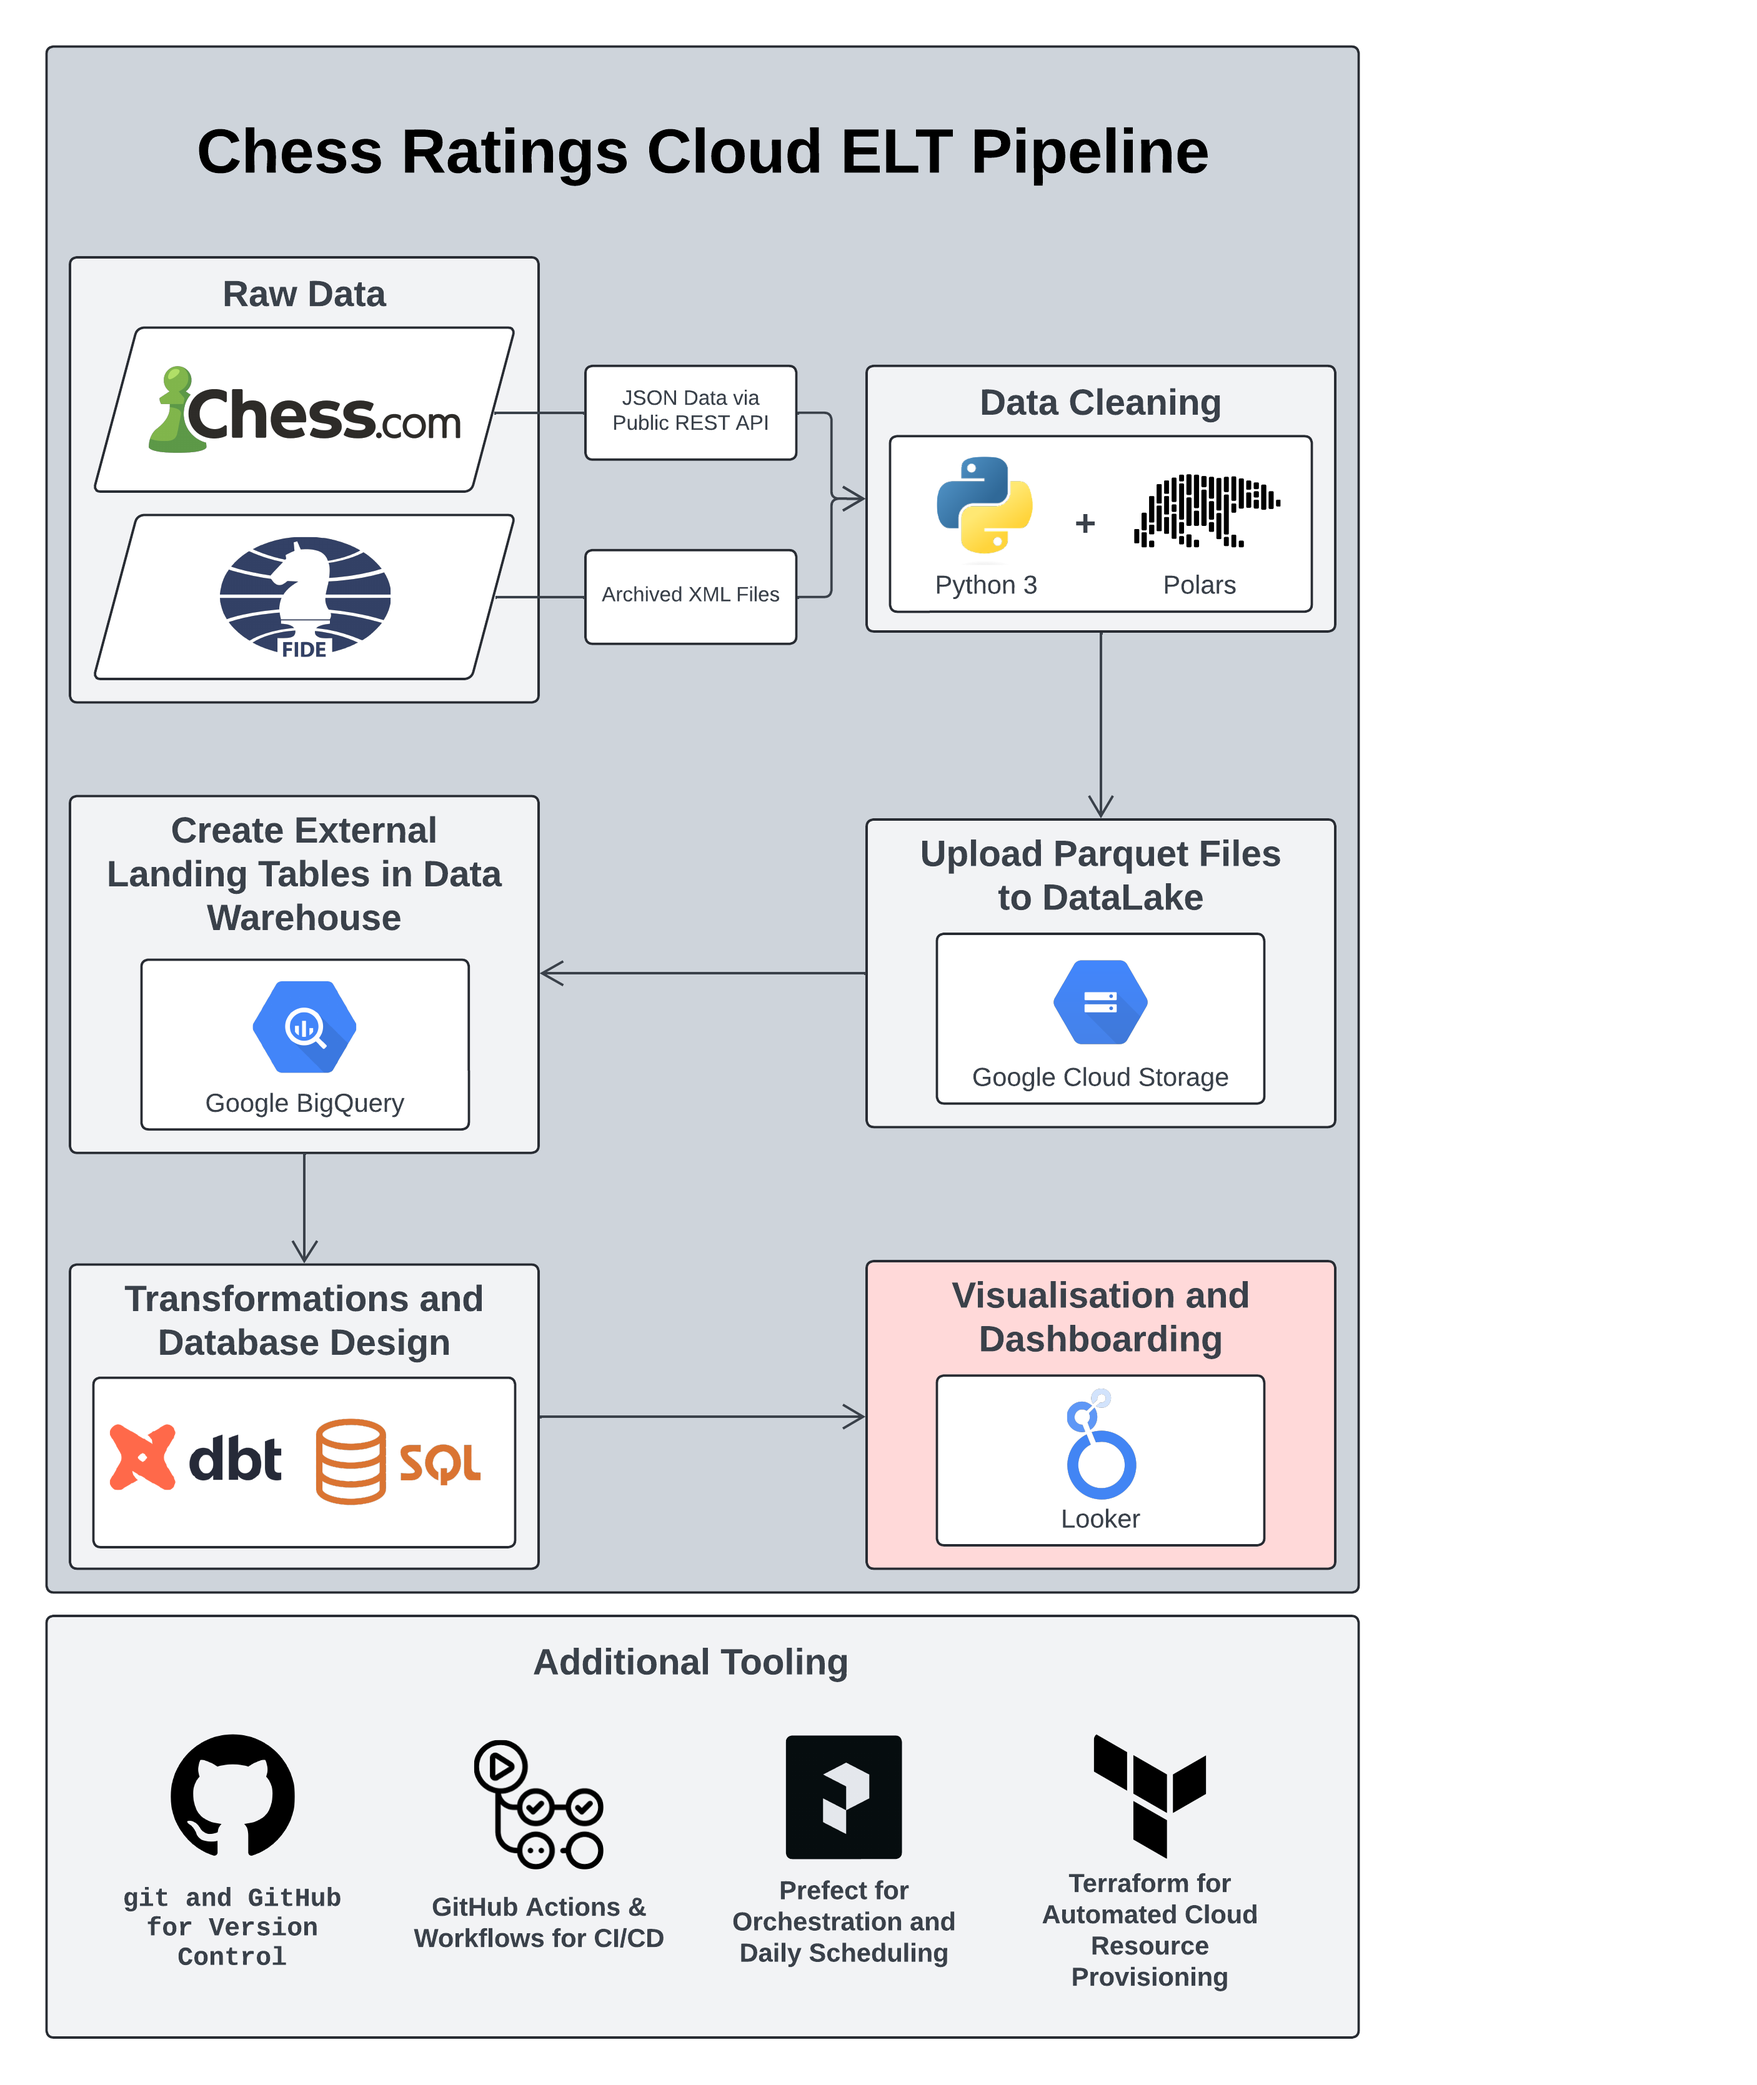
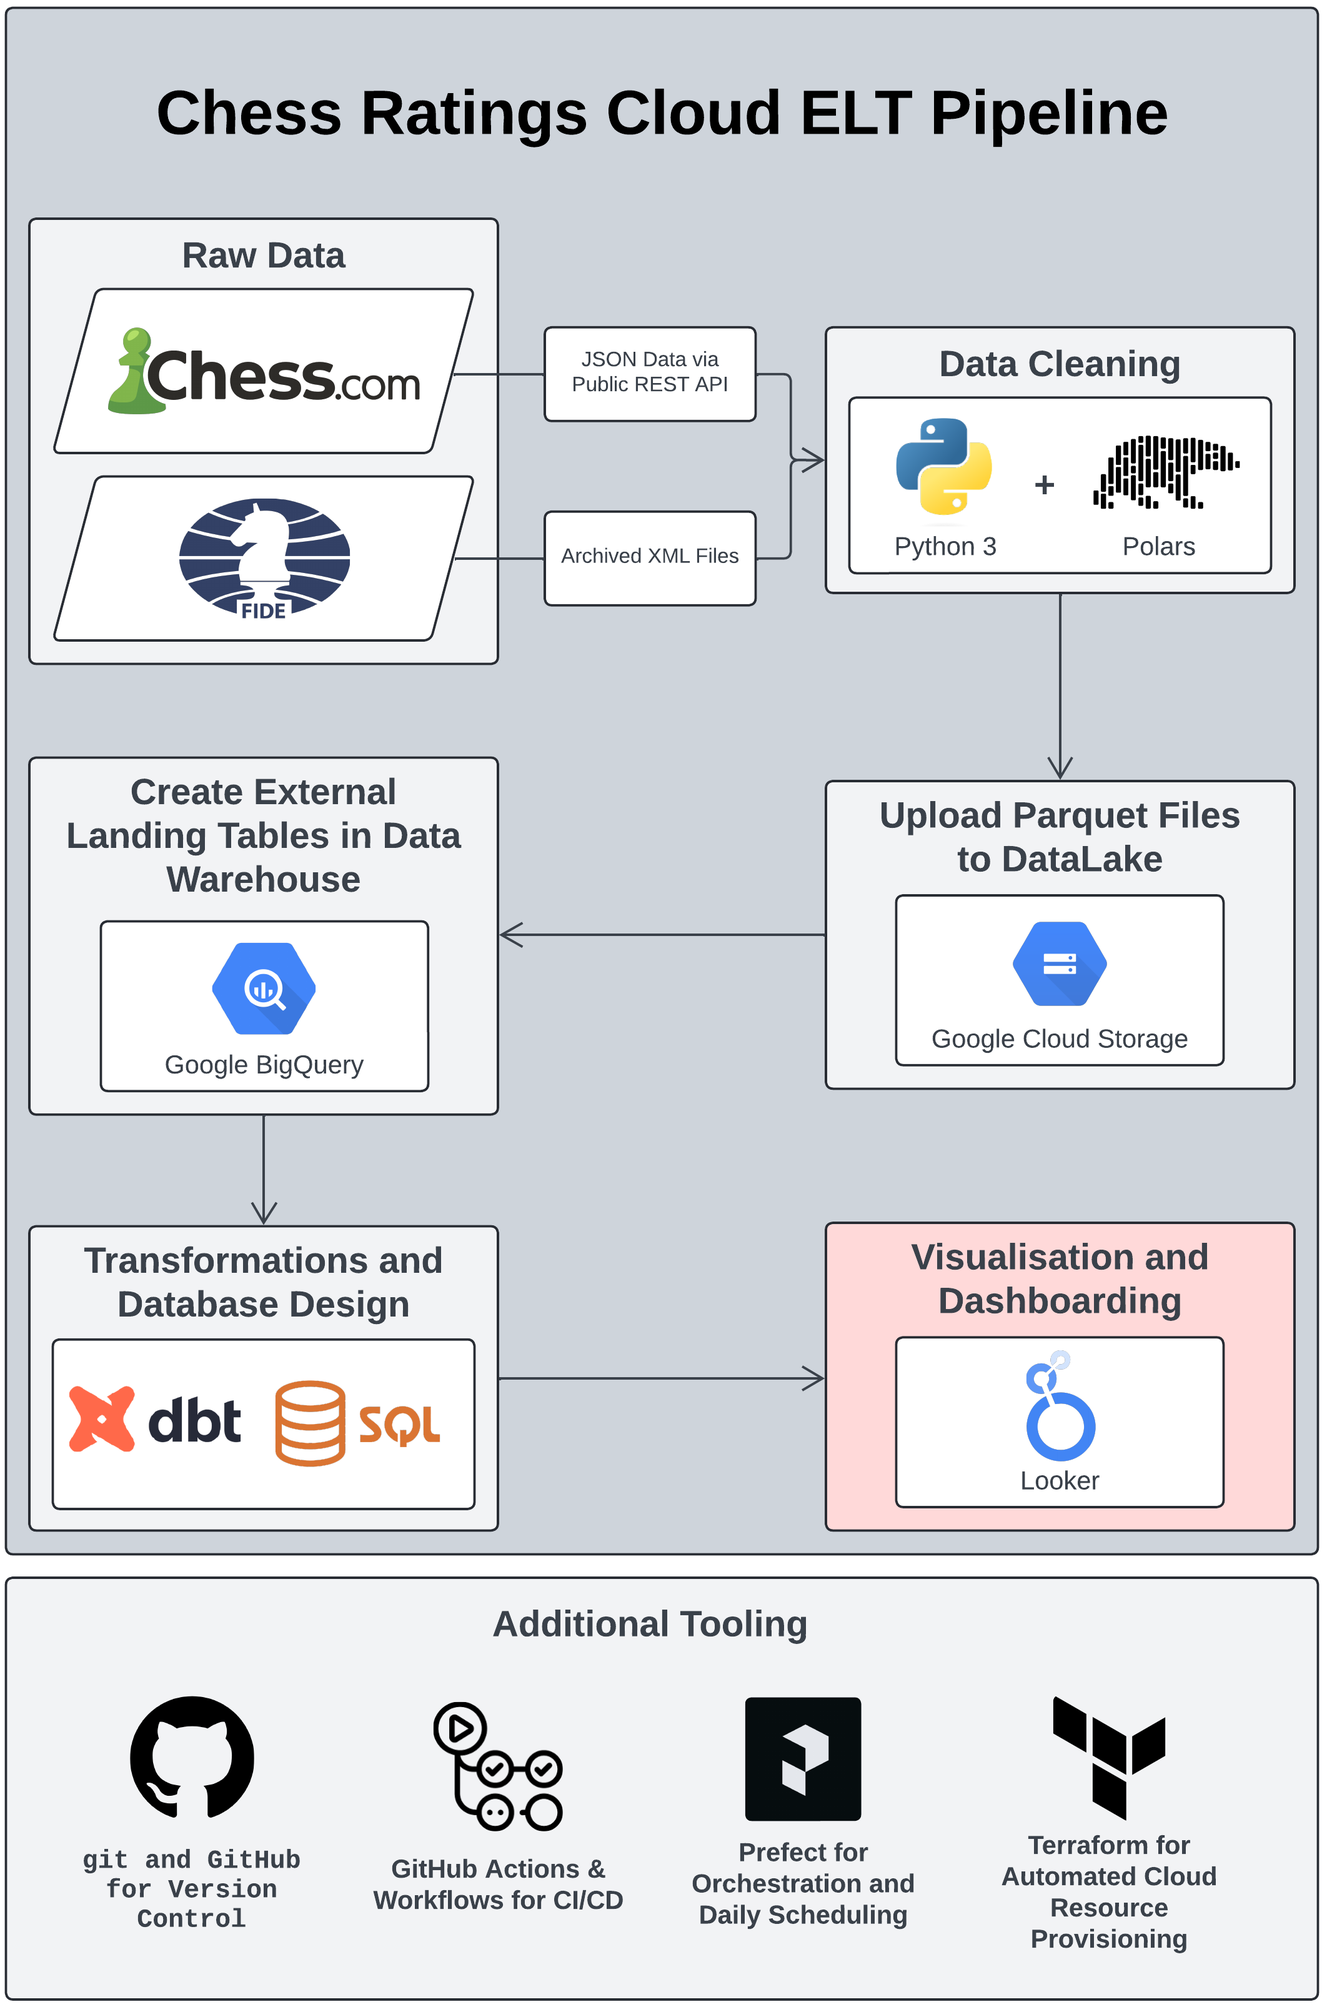
chore: modified project flow chart image crop

diff --git a/README.md b/README.md
@@ -2,10 +2,11 @@
 
 ## Pipeline Description
 
-In this project, which is the culmination of my learnings from the recent Data 
-Engineering Zoomcamp, I have built an orchestrated, cloud-based, end-to-end ELT pipeline
-for ingesting, transforming, and visualising data from two chess ratings datasets; 
-Chess.com and the International Chess Federation (FIDE).
+In this project, which is the culmination of my learnings from the recent [Data
+Engineering Zoomcamp](https://github.com/DataTalksClub/data-engineering-zoomcamp), I
+have built an orchestrated, cloud-based, end-to-end ELT pipeline for ingesting,
+transforming, and visualising data from two chess ratings datasets; Chess.com and the
+International Chess Federation (FIDE).
 
 *My goals for this project are two-fold:*
 
